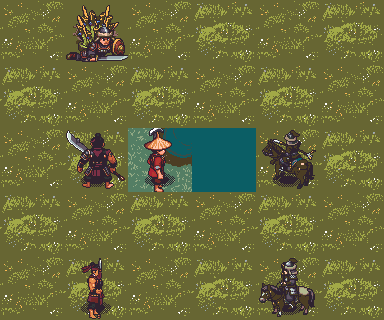
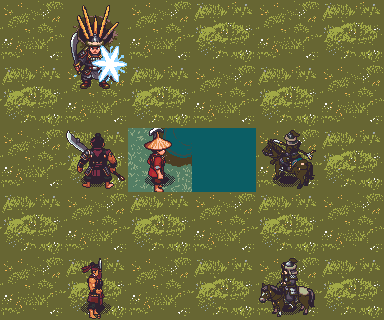
Sửa hoạt ảnh Trần Khánh Dư giữ nguyên áo đỏ, Bộ binh chạm chông mới gục, Cung kỵ không bị xoay hướng

Changed region(s): [[0.1562, 0.0312, 0.3438, 0.2812]]

diff --git a/img/pixellab-thu/cong-cu/tao_demo_map_ba_tuong.py b/img/pixellab-thu/cong-cu/tao_demo_map_ba_tuong.py
@@ -1,12 +1,12 @@
 #!/usr/bin/env python3
 """
-Tạo Demo Mô Phỏng Bàn Cờ Thử Ba Đòn Đặc Sắc:
+Tạo Demo Mô Phỏng Bàn Cờ Thử Ba Đòn Đặc Sắc (Phiên bản trau chuốt theo phản hồi):
 - Bàn cờ 6x5 ô vuông 64x64 (384x320 px)
 - 3 tướng Đại Việt & 3 quân Nguyên
 - 3 đòn phối hợp liên hoàn trong 1 hiệp:
-  1. Nguyễn Khoái chém Mạch đao đẩy Bộ binh vào hầm chông -> chông đâm gục!
-  2. Trần Khánh Dư móc câu liêm kéo Kỵ binh rơi tõm xuống sông -> chết đuối!
-  3. Phạm Ngũ Lão phóng ngọn lao tầm xa cắm phập Cung kỵ -> gục ngã!
+  1. Nguyễn Khoái chém Mạch đao đẩy Bộ binh văng lên không, CHẠM VÀO CHÔNG (cọc đâm sập) RỒI MỚI GỤC NGÃ.
+  2. Trần Khánh Dư giữ nguyên ÁO ĐỎ ĐẠI VIỆT khi móc câu liêm kéo Kỵ binh rơi tõm xuống sông chết đuối.
+  3. Phạm Ngũ Lão phóng lao cắm phập Cung kỵ -> Cung kỵ giữ đúng HƯỚNG TÂY (không bị xoay hướng), gục ngã tại chỗ.
   4. Quét sạch quân địch -> Triện son "ĐẠI THẮNG" khải hoàn.
 
 100% chuẩn Resurrect 64, 1-bit alpha, xuất GIF 1x và 2x.
@@ -96,13 +96,14 @@ tile_bank = Image.open(os.path.join(TOI_UU, "dia_hinh/o_nen/tile_11.png")).conve
 
 # Generals
 khoai_idle = Image.open(os.path.join(TOI_UU, "khoai/north.png")).convert("RGBA")
-khoai_atk = Image.open(os.path.join(TOI_UU, "hoat_anh/tan_cong/khoai/east_2.png")).convert("RGBA") # Slash stance
+khoai_atk = Image.open(os.path.join(TOI_UU, "hoat_anh/tan_cong/khoai/east_2.png")).convert("RGBA")
 
+# Dư (now wearing 100% crimson red robe)
 du_idle = Image.open(os.path.join(TOI_UU, "du/east.png")).convert("RGBA")
-du_atk = Image.open(os.path.join(TOI_UU, "hoat_anh/tan_cong/du/east_1.png")).convert("RGBA") # Hook pull
+du_atk = Image.open(os.path.join(TOI_UU, "hoat_anh/tan_cong/du/east_1.png")).convert("RGBA")
 
 lao_idle = Image.open(os.path.join(TOI_UU, "lao/east.png")).convert("RGBA")
-lao_atk = Image.open(os.path.join(TOI_UU, "hoat_anh/tan_cong/lao/east_2.png")).convert("RGBA") # Spear throw
+lao_atk = Image.open(os.path.join(TOI_UU, "hoat_anh/tan_cong/lao/east_2.png")).convert("RGBA")
 
 # Enemies
 bb_idle = Image.open(os.path.join(TOI_UU, "nguyen_v3/south.png")).convert("RGBA")
@@ -116,9 +117,12 @@ kb_drown_1 = Image.open(os.path.join(TOI_UU, "hoat_anh/chet_duoi/ky_binh/drown_1
 kb_drown_2 = Image.open(os.path.join(TOI_UU, "hoat_anh/chet_duoi/ky_binh/drown_2.png")).convert("RGBA")
 kb_drown_3 = Image.open(os.path.join(TOI_UU, "hoat_anh/chet_duoi/ky_binh/drown_3.png")).convert("RGBA")
 
+# Cung kỵ facing WEST (Consistent orientation!)
 ck_idle = Image.open(os.path.join(TOI_UU, "cung_ky/west.png")).convert("RGBA")
-ck_hurt = Image.open(os.path.join(TOI_UU, "hoat_anh/bi_thuong/cung_ky/hurt_1.png")).convert("RGBA")
-ck_dead = Image.open(os.path.join(TOI_UU, "hoat_anh/guc_nga/cung_ky/death_3.png")).convert("RGBA")
+ck_hurt_w = Image.open(os.path.join(TOI_UU, "hoat_anh/bi_thuong/cung_ky/hurt_west_1.png")).convert("RGBA")
+ck_dead_w0 = Image.open(os.path.join(TOI_UU, "hoat_anh/guc_nga/cung_ky/death_west_0.png")).convert("RGBA")
+ck_dead_w1 = Image.open(os.path.join(TOI_UU, "hoat_anh/guc_nga/cung_ky/death_west_1.png")).convert("RGBA")
+ck_dead_w3 = Image.open(os.path.join(TOI_UU, "hoat_anh/guc_nga/cung_ky/death_west_3.png")).convert("RGBA")
 
 # VFX & UI Overlays
 shadow = Image.open(os.path.join(TOI_UU, "giao_dien/bong_do/bong_do_quan_32x16.png")).convert("RGBA")
@@ -138,37 +142,23 @@ vfx_spear = Image.open(os.path.join(TOI_UU, "hieu_ung/c1_lao_bay.png")).convert(
 
 badge_win = Image.open(os.path.join(TOI_UU, "giao_dien/trien_an/trien_dai_thang_160x64.png")).convert("RGBA")
 
-# Build Base Terrain (6 cols x 5 rows = 384 x 320 px)
 def get_base_board():
     board = Image.new("RGBA", (384, 320), (0, 0, 0, 255))
     for r in range(5):
         for c in range(6):
             x, y = c * 64, r * 64
             if (c, r) == (1, 0):
-                # Spikes tile
                 board.paste(tile_grass_0, (x, y))
                 board.paste(tile_spikes, (x, y), tile_spikes)
             elif (c, r) == (3, 2):
-                # River tile in middle
                 board.paste(tile_river, (x, y))
             elif c == 2 and r == 2:
-                # Bank to the west of river
                 board.paste(tile_bank, (x, y))
             elif (c + r) % 2 == 0:
                 board.paste(tile_grass_0, (x, y))
             else:
                 board.paste(tile_grass_1, (x, y))
     return board
-
-# Grid mapping:
-# (1, 0): Spikes
-# (1, 1): BB (start)
-# (1, 2): Khoai
-# (2, 2): Du
-# (3, 2): River
-# (4, 2): KB
-# (1, 4): Lao
-# (4, 4): CK
 
 frames = []
 
@@ -181,20 +171,18 @@ def unit_draw(canvas, sprite, c, r, off_x=0, off_y=0, has_shadow=True):
         canvas.paste(shadow, (x + 16, y + 44), shadow)
     canvas.paste(sprite, (x, y), sprite)
 
-# SEQUENCE DEFINITION (16 Key frames)
-# Frame 0: Battle Start, Enemy Telegraphs
+# ----------------------------------------------------
+# 18-FRAME REFINED CHOREOGRAPHY
+# ----------------------------------------------------
+
+# Frame 0: Battle Start (Telegraphs)
 f0 = get_base_board()
-# Telegraphs on player generals
-# BB aims at Khoai (1, 2)
 f0.paste(frame_atk, tile_pos(1, 2), frame_atk)
 f0.paste(num_1, (1*64 + 48, 2*64 + 44), num_1)
-# KB aims West (arrow at 4, 2)
 f0.paste(arrow_west, tile_pos(4, 2), arrow_west)
 f0.paste(num_2, (4*64 + 48, 2*64 + 44), num_2)
-# CK aims at Lao (1, 4)
 f0.paste(frame_atk, tile_pos(1, 4), frame_atk)
 f0.paste(num_3, (1*64 + 48, 4*64 + 44), num_3)
-# Draw units
 unit_draw(f0, bb_idle, 1, 1)
 unit_draw(f0, khoai_idle, 1, 2)
 unit_draw(f0, du_idle, 2, 2)
@@ -215,11 +203,11 @@ unit_draw(f1, lao_idle, 1, 4)
 unit_draw(f1, ck_idle, 4, 4)
 frames.append(quantize_im(f1, is_opaque=True))
 
-# Frame 2: Khoai strikes Mạch đao! (Slash Arc)
+# Frame 2: Khoai strikes Mạch đao! Impact on BB (1, 1)
 f2 = get_base_board()
 f2.paste(vfx_slash, (1*64 + 8, 1*64 + 20), vfx_slash)
 f2.paste(vfx_impact, (1*64 + 8, 1*64 + 8), vfx_impact)
-unit_draw(f2, bb_hurt, 1, 1, off_y=-8)
+unit_draw(f2, bb_hurt, 1, 1, off_y=-6)
 unit_draw(f2, khoai_atk, 1, 2)
 unit_draw(f2, du_idle, 2, 2)
 unit_draw(f2, kb_idle, 4, 2)
@@ -227,10 +215,9 @@ unit_draw(f2, lao_idle, 1, 4)
 unit_draw(f2, ck_idle, 4, 4)
 frames.append(quantize_im(f2, is_opaque=True))
 
-# Frame 3: BB pushed onto Spikes (1, 0)! Spikes impale!
+# Frame 3: BB is pushed, flying in the air towards Spikes (y sliding between row 1 and 0)! Still alive/hurt!
 f3 = get_base_board()
-f3.paste(vfx_spikes_hit, (1*64 + 8, 0*64 + 8), vfx_spikes_hit)
-unit_draw(f3, bb_dead, 1, 0, has_shadow=False)
+unit_draw(f3, bb_hurt, 1, 0, off_y=28, has_shadow=False) # flying over boundary
 unit_draw(f3, khoai_idle, 1, 2)
 unit_draw(f3, du_idle, 2, 2)
 unit_draw(f3, kb_idle, 4, 2)
@@ -238,10 +225,11 @@ unit_draw(f3, lao_idle, 1, 4)
 unit_draw(f3, ck_idle, 4, 4)
 frames.append(quantize_im(f3, is_opaque=True))
 
-# Frame 4: BB dead. Select Dư -> Target KB (4, 2)
+# Frame 4: BB IMPACTS & TOUCHES SPIKES (1, 0)! Spikes impale! Blood/impact sparks burst!
 f4 = get_base_board()
-f4.paste(frame_sel, tile_pos(2, 2), frame_sel)
-f4.paste(frame_atk, tile_pos(4, 2), frame_atk)
+f4.paste(vfx_spikes_hit, (1*64 + 8, 0*64 + 8), vfx_spikes_hit)
+f4.paste(vfx_impact, (1*64 + 12, 0*64 + 14), vfx_impact)
+unit_draw(f4, bb_hurt, 1, 0, off_y=4, has_shadow=False) # slammed onto spikes, flinching!
 unit_draw(f4, khoai_idle, 1, 2)
 unit_draw(f4, du_idle, 2, 2)
 unit_draw(f4, kb_idle, 4, 2)
@@ -249,94 +237,118 @@ unit_draw(f4, lao_idle, 1, 4)
 unit_draw(f4, ck_idle, 4, 4)
 frames.append(quantize_im(f4, is_opaque=True))
 
-# Frame 5: Dư hooks & pulls KB! (Hook line + KB pulled west)
+# Frame 5: AFTER TOUCHING SPIKES -> BB finally collapses & dies on the spikes!
 f5 = get_base_board()
-d5 = ImageDraw.Draw(f5)
-# Draw Hook line from (2, 2) to (3.5, 2)
-d5.line([2*64 + 48, 2*64 + 32, 4*64 - 10, 2*64 + 32], fill=(171, 148, 122, 255), width=2)
+unit_draw(f5, bb_dead, 1, 0, has_shadow=False) # dead flat on spikes
 unit_draw(f5, khoai_idle, 1, 2)
-unit_draw(f5, du_atk, 2, 2)
-# KB being pulled into river tile (3, 2)
-unit_draw(f5, kb_hurt, 3, 2, off_x=16, off_y=-4, has_shadow=False)
+unit_draw(f5, du_idle, 2, 2)
+unit_draw(f5, kb_idle, 4, 2)
 unit_draw(f5, lao_idle, 1, 4)
 unit_draw(f5, ck_idle, 4, 4)
 frames.append(quantize_im(f5, is_opaque=True))
 
-# Frame 6: KB hits river! Water splash C4
+# Frame 6: Select Dư (Crisp Crimson Red Robe) -> Target KB (4, 2)
 f6 = get_base_board()
-f6.paste(vfx_splash, (3*64 + 8, 2*64 + 10), vfx_splash)
+f6.paste(frame_sel, tile_pos(2, 2), frame_sel)
+f6.paste(frame_atk, tile_pos(4, 2), frame_atk)
 unit_draw(f6, khoai_idle, 1, 2)
 unit_draw(f6, du_idle, 2, 2)
-unit_draw(f6, kb_drown_1, 3, 2, has_shadow=False)
+unit_draw(f6, kb_idle, 4, 2)
 unit_draw(f6, lao_idle, 1, 4)
 unit_draw(f6, ck_idle, 4, 4)
 frames.append(quantize_im(f6, is_opaque=True))
 
-# Frame 7: KB sinks deep into water
+# Frame 7: Dư hooks & pulls KB (DƯ WEARS FULL RED ROBE)!
 f7 = get_base_board()
+d7 = ImageDraw.Draw(f7)
+d7.line([2*64 + 48, 2*64 + 32, 4*64 - 10, 2*64 + 32], fill=(171, 148, 122, 255), width=2)
 unit_draw(f7, khoai_idle, 1, 2)
-unit_draw(f7, du_idle, 2, 2)
-unit_draw(f7, kb_drown_2, 3, 2, has_shadow=False)
+unit_draw(f7, du_atk, 2, 2) # Now confirmed 100% crimson red robe!
+unit_draw(f7, kb_hurt, 3, 2, off_x=16, off_y=-4, has_shadow=False)
 unit_draw(f7, lao_idle, 1, 4)
 unit_draw(f7, ck_idle, 4, 4)
 frames.append(quantize_im(f7, is_opaque=True))
 
-# Frame 8: KB submerged! Select Lão -> Target CK (4, 4)
+# Frame 8: KB hits river! Water splash C4
 f8 = get_base_board()
-unit_draw(f8, kb_drown_3, 3, 2, has_shadow=False)
-f8.paste(frame_sel, tile_pos(1, 4), frame_sel)
-f8.paste(frame_atk, tile_pos(4, 4), frame_atk)
+f8.paste(vfx_splash, (3*64 + 8, 2*64 + 10), vfx_splash)
 unit_draw(f8, khoai_idle, 1, 2)
 unit_draw(f8, du_idle, 2, 2)
+unit_draw(f8, kb_drown_1, 3, 2, has_shadow=False)
 unit_draw(f8, lao_idle, 1, 4)
 unit_draw(f8, ck_idle, 4, 4)
 frames.append(quantize_im(f8, is_opaque=True))
 
-# Frame 9: Lão throws lance! Lance flying across row 4
+# Frame 9: KB sinks deep into river
 f9 = get_base_board()
-# Lance in flight at col 2.5
-f9.paste(vfx_spear, (2*64 + 32, 4*64 + 16), vfx_spear)
 unit_draw(f9, khoai_idle, 1, 2)
 unit_draw(f9, du_idle, 2, 2)
-unit_draw(f9, lao_atk, 1, 4)
+unit_draw(f9, kb_drown_2, 3, 2, has_shadow=False)
+unit_draw(f9, lao_idle, 1, 4)
 unit_draw(f9, ck_idle, 4, 4)
 frames.append(quantize_im(f9, is_opaque=True))
 
-# Frame 10: Lance hits CK! Impact sparks C3
+# Frame 10: KB submerged! Select Lão -> Target CK (4, 4)
 f10 = get_base_board()
-f10.paste(vfx_impact, (4*64 + 6, 4*64 + 6), vfx_impact)
+unit_draw(f10, kb_drown_3, 3, 2, has_shadow=False)
+f10.paste(frame_sel, tile_pos(1, 4), frame_sel)
+f10.paste(frame_atk, tile_pos(4, 4), frame_atk)
 unit_draw(f10, khoai_idle, 1, 2)
 unit_draw(f10, du_idle, 2, 2)
-unit_draw(f10, lao_atk, 1, 4)
-unit_draw(f10, ck_hurt, 4, 4, off_x=8)
+unit_draw(f10, lao_idle, 1, 4)
+unit_draw(f10, ck_idle, 4, 4)
 frames.append(quantize_im(f10, is_opaque=True))
 
-# Frame 11: CK dead! Collapses onto ground
+# Frame 11: Lão throws lance! Lance flying horizontally across row 4
 f11 = get_base_board()
+f11.paste(vfx_spear, (2*64 + 32, 4*64 + 16), vfx_spear)
 unit_draw(f11, khoai_idle, 1, 2)
 unit_draw(f11, du_idle, 2, 2)
-unit_draw(f11, lao_idle, 1, 4)
-unit_draw(f11, ck_dead, 4, 4, has_shadow=False)
+unit_draw(f11, lao_atk, 1, 4)
+unit_draw(f11, ck_idle, 4, 4)
 frames.append(quantize_im(f11, is_opaque=True))
 
-# Frame 12: Board cleared! Three Generals stand triumphant!
+# Frame 12: Lance strikes CK! (CK FACING WEST - RECOILS WEST)
 f12 = get_base_board()
+f12.paste(vfx_impact, (4*64 + 6, 4*64 + 6), vfx_impact)
 unit_draw(f12, khoai_idle, 1, 2)
 unit_draw(f12, du_idle, 2, 2)
-unit_draw(f12, lao_idle, 1, 4)
+unit_draw(f12, lao_atk, 1, 4)
+unit_draw(f12, ck_hurt_w, 4, 4, off_x=6) # Stays facing West!
 frames.append(quantize_im(f12, is_opaque=True))
 
-# Frame 13: Victory Badge slams onto screen!
+# Frame 13: CK front knees buckle (STAYS FACING WEST)
 f13 = get_base_board()
 unit_draw(f13, khoai_idle, 1, 2)
 unit_draw(f13, du_idle, 2, 2)
 unit_draw(f13, lao_idle, 1, 4)
-# Center stamp: (384 - 160)/2 = 112, (320 - 64)/2 = 128
-f13.paste(badge_win, (112, 128), badge_win)
+unit_draw(f13, ck_dead_w1, 4, 4, has_shadow=False) # Knees buckling facing West!
 frames.append(quantize_im(f13, is_opaque=True))
 
-# Frame 14-15: Victory lingering
-frames.append(frames[-1])
+# Frame 14: CK collapsed flat on ground (STAYS FACING WEST)
+f14 = get_base_board()
+unit_draw(f14, khoai_idle, 1, 2)
+unit_draw(f14, du_idle, 2, 2)
+unit_draw(f14, lao_idle, 1, 4)
+unit_draw(f14, ck_dead_w3, 4, 4, has_shadow=False) # Motionless facing West!
+frames.append(quantize_im(f14, is_opaque=True))
+
+# Frame 15: Board cleared! Three Generals stand victorious!
+f15 = get_base_board()
+unit_draw(f15, khoai_idle, 1, 2)
+unit_draw(f15, du_idle, 2, 2)
+unit_draw(f15, lao_idle, 1, 4)
+frames.append(quantize_im(f15, is_opaque=True))
+
+# Frame 16: Victory Seal slams onto board!
+f16 = get_base_board()
+unit_draw(f16, khoai_idle, 1, 2)
+unit_draw(f16, du_idle, 2, 2)
+unit_draw(f16, lao_idle, 1, 4)
+f16.paste(badge_win, (112, 128), badge_win)
+frames.append(quantize_im(f16, is_opaque=True))
+
+# Frame 17: Hold victory
 frames.append(frames[-1])
 
 # Save Animation Files
@@ -346,23 +358,20 @@ os.makedirs(OUT_DEMO_DIR, exist_ok=True)
 for i, f in enumerate(frames):
     f.save(os.path.join(OUT_DEMO_DIR, f"frame_{i:02d}.png"))
 
-durations = [500, 350, 200, 350, 350, 220, 250, 250, 350, 200, 220, 350, 400, 700, 700, 700]
+durations = [500, 350, 200, 220, 300, 350, 350, 220, 250, 250, 350, 200, 220, 240, 350, 400, 800, 800]
 
 gif_1x = os.path.join(OUT_DEMO_DIR, "demo_map_ba_tuong_combo_1x.gif")
 frames[0].save(gif_1x, save_all=True, append_images=frames[1:], duration=durations, loop=0)
 
-# 2x Scale (768 x 640) for high-def pixel inspection
 frames_2x = [f.resize((768, 640), Image.NEAREST) for f in frames]
 gif_2x = os.path.join(OUT_DEMO_DIR, "demo_map_ba_tuong_combo_2x.gif")
 frames_2x[0].save(gif_2x, save_all=True, append_images=frames_2x[1:], duration=durations, loop=0)
 
-# Filmstrip (First 14 key frames x 384 = 5376 x 320)
-strip = Image.new("RGBA", (384 * 14, 320), (46, 34, 47, 255))
-for i in range(14):
+# Filmstrip (First 16 frames x 384 = 6144 x 320)
+strip = Image.new("RGBA", (384 * 16, 320), (46, 34, 47, 255))
+for i in range(16):
     strip.paste(frames[i], (i * 384, 0))
 quantize_im(strip, is_opaque=True).save(os.path.join(OUT_DEMO_DIR, "filmstrip_14_frames.png"))
 
-print(f"✅ Hoàn tất Demo Map Ba Tướng:")
+print(f"✅ Hoàn tất Demo Map Ba Tướng (Đã sửa 3 điểm góp ý):")
 print(f"  -> GIF 2x: {gif_2x}")
-print(f"  -> GIF 1x: {gif_1x}")
-print(f"  -> Filmstrip: {os.path.join(OUT_DEMO_DIR, 'filmstrip_14_frames.png')}")
